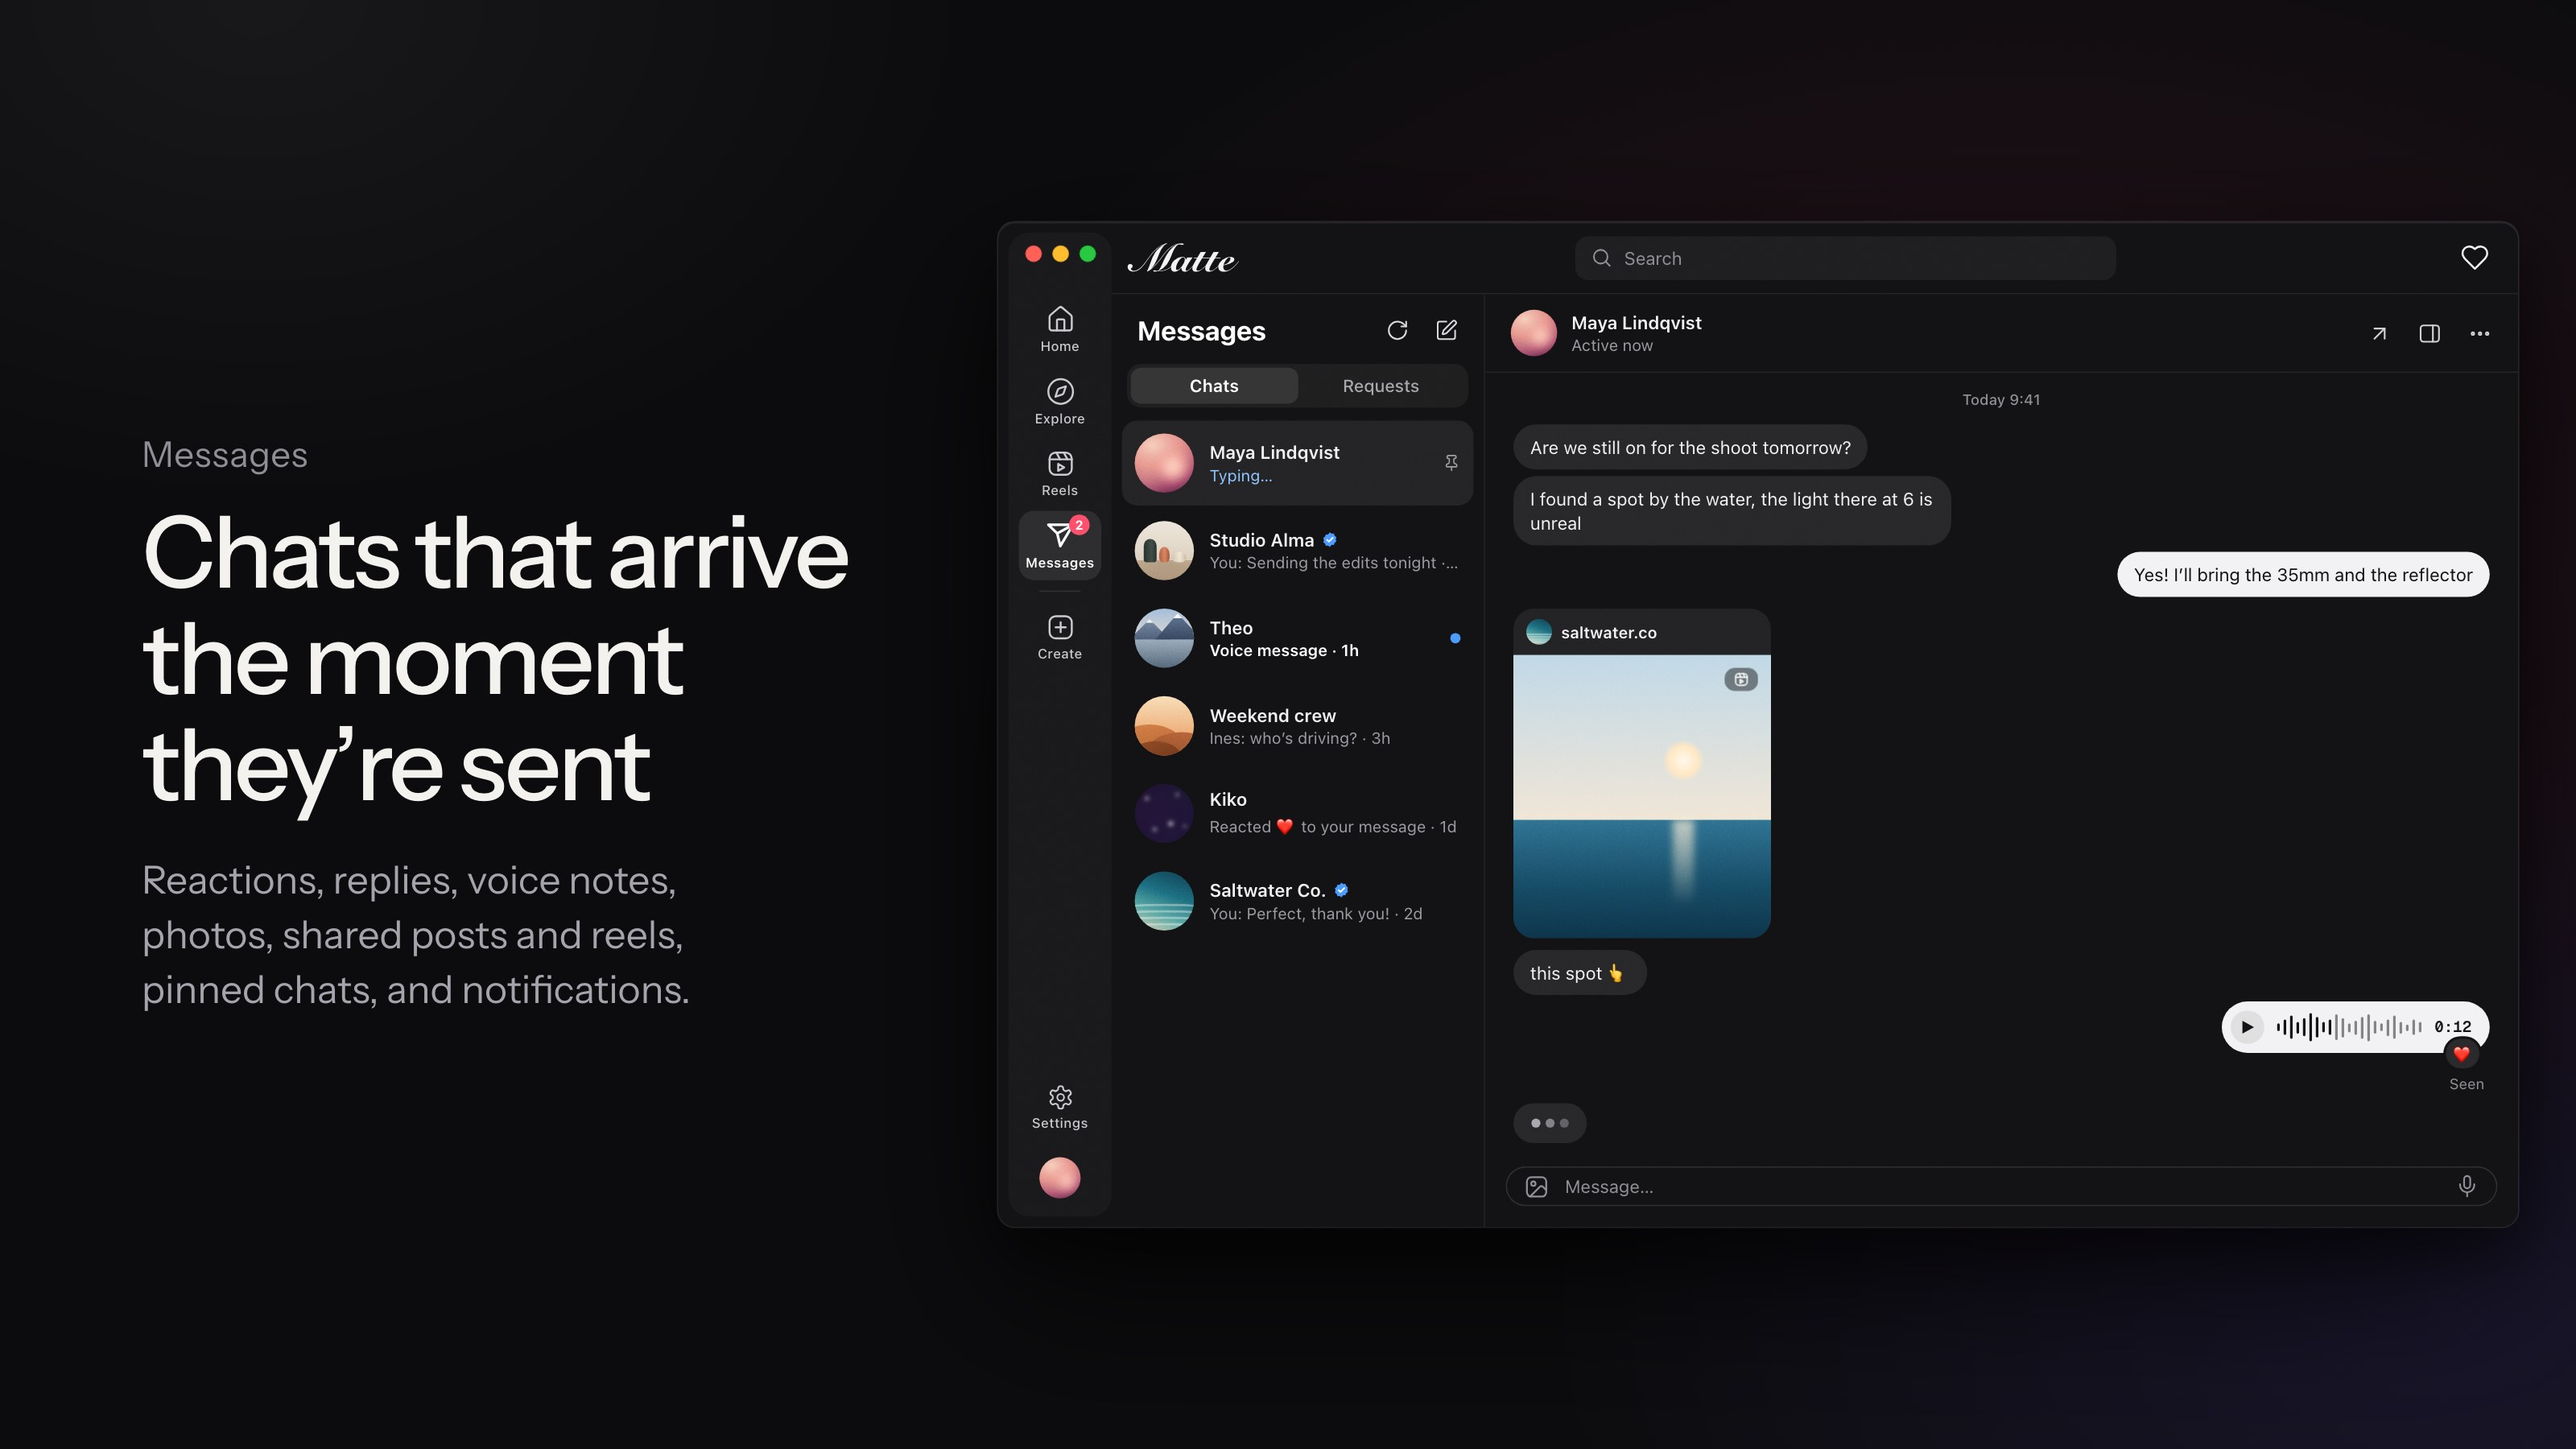
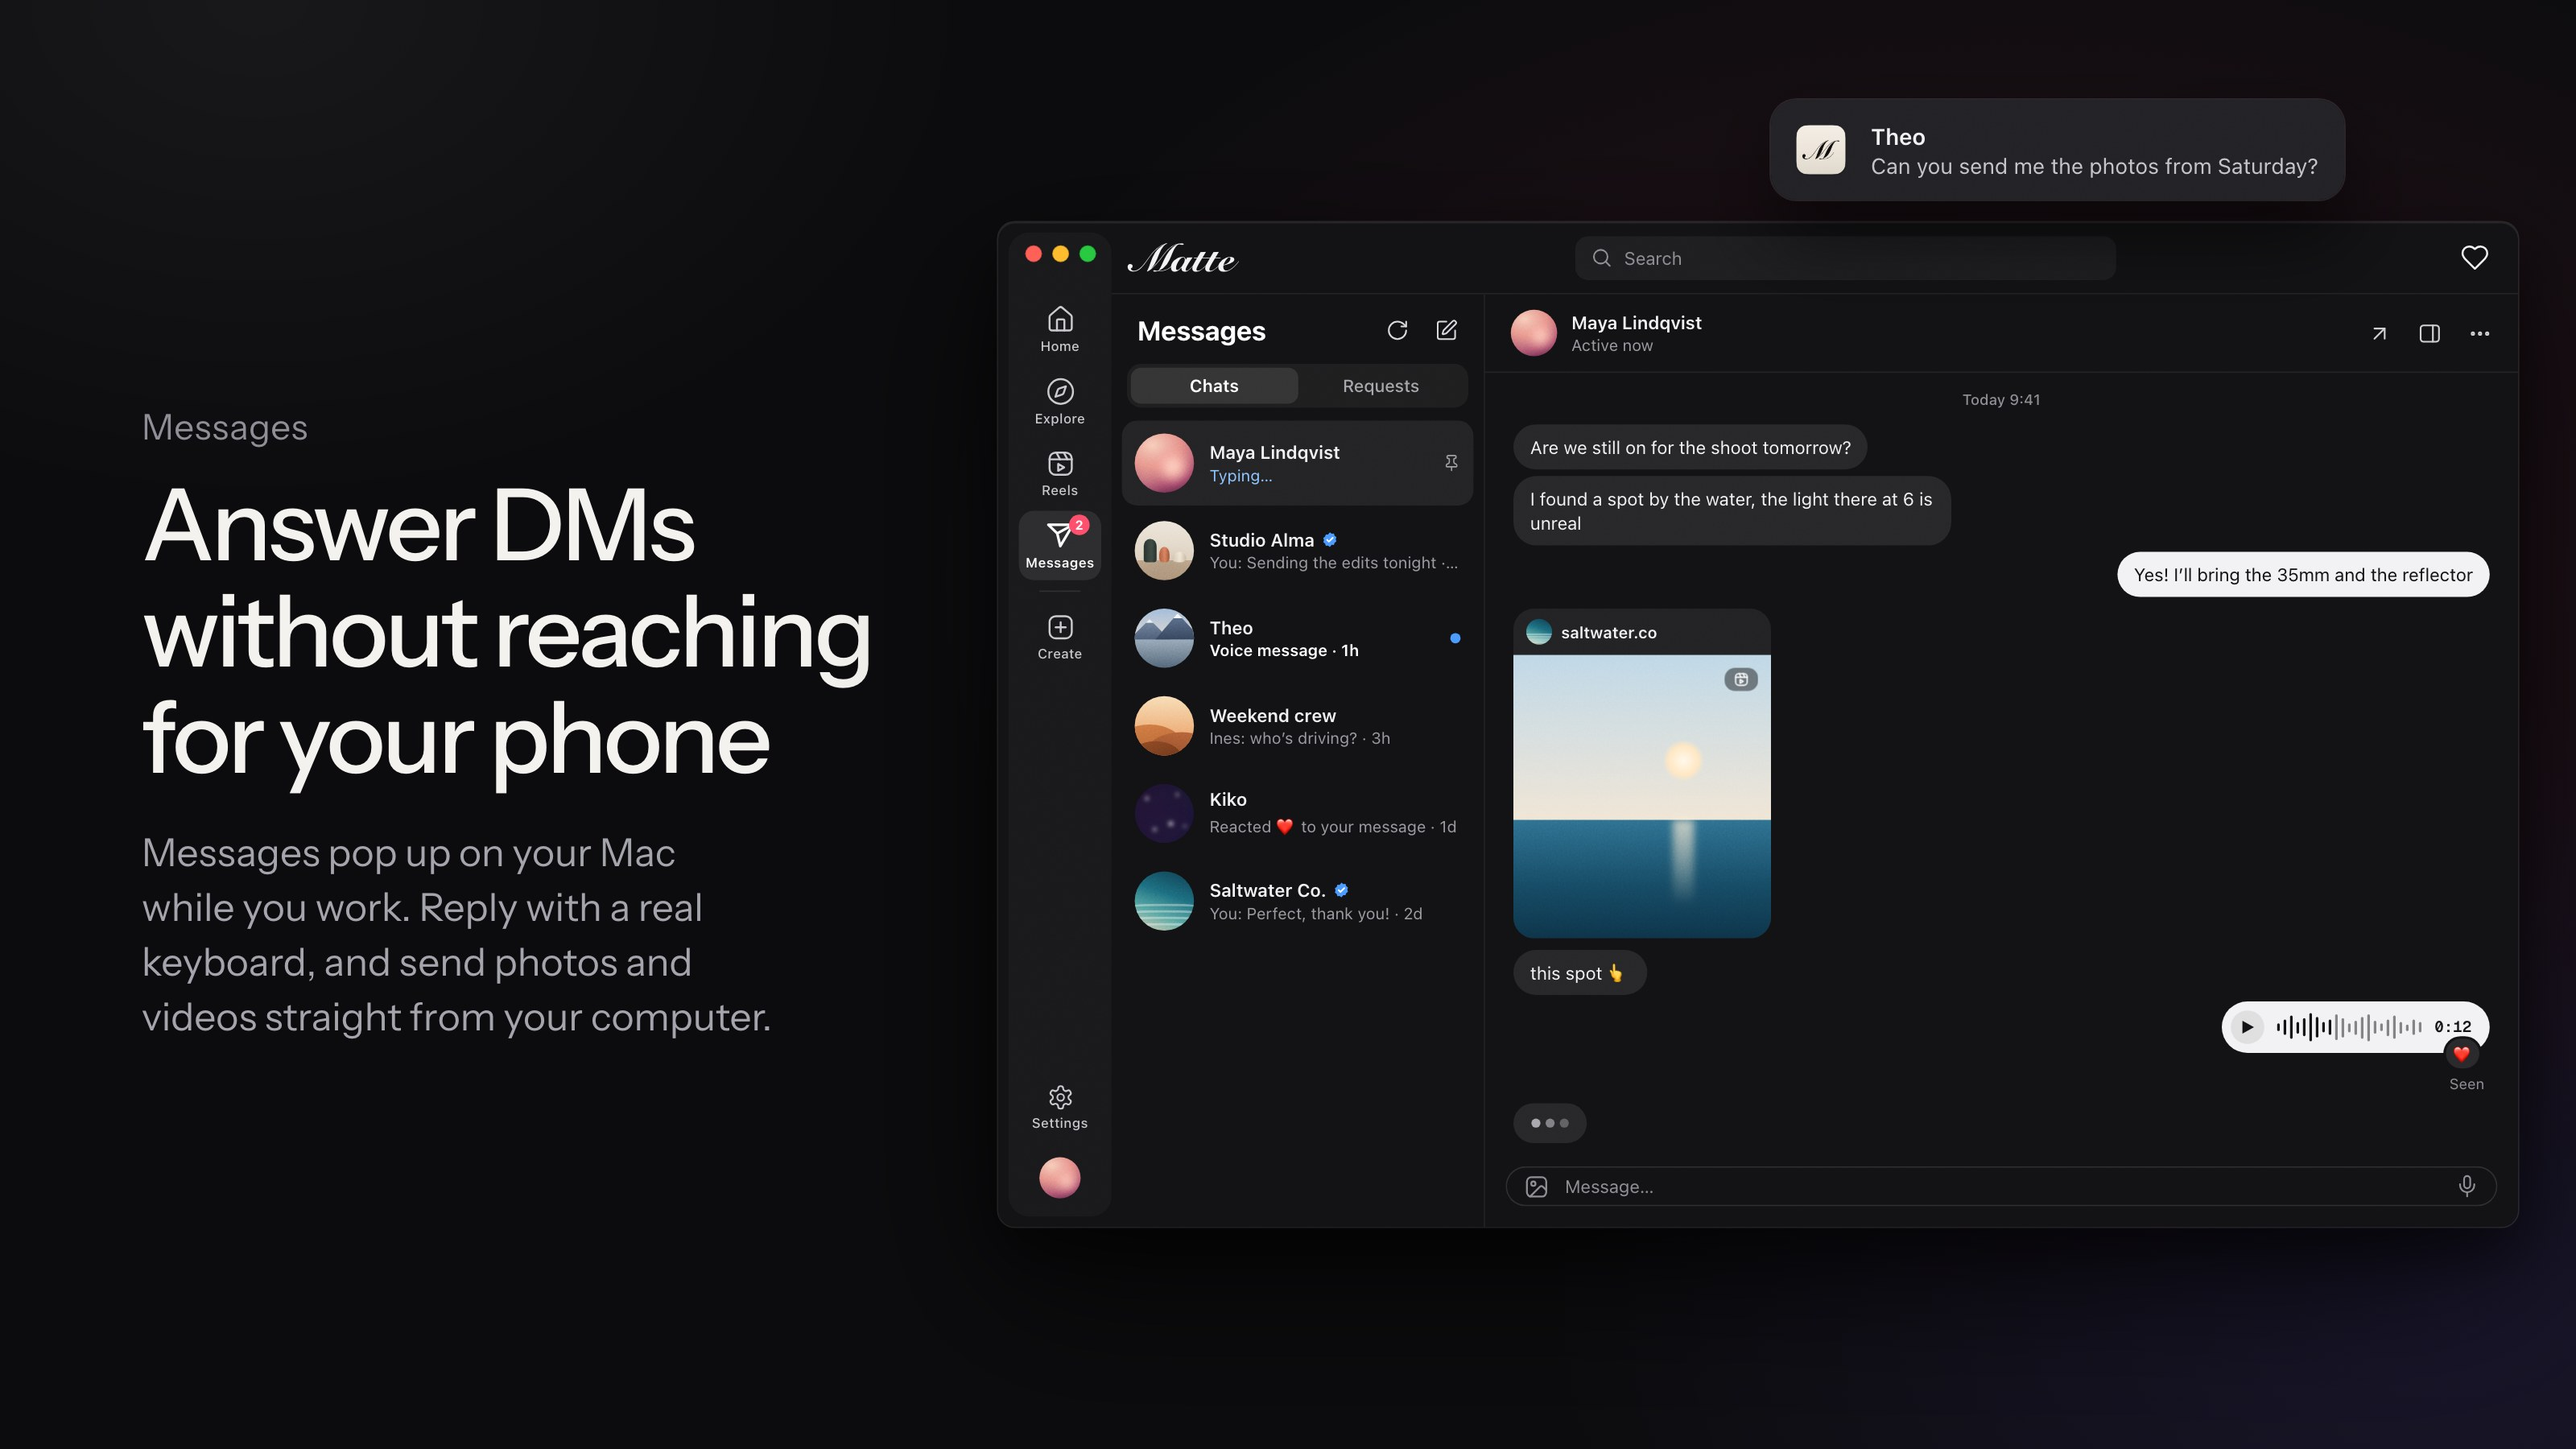
README graphics: copy rewritten around what people get (answer DMs without your phone, reels big with comments beside them, posts that go out on time), and a notification on the messages card

Changed region(s): [[0.0625, 0.28, 0.3438, 0.7156], [0.6875, 0.0622, 0.9062, 0.1244]]

diff --git a/docs/graphics/render.jsx b/docs/graphics/render.jsx
@@ -559,10 +559,10 @@ const Mini = ({ x, y, w = 168, kind = 'dusk', by = 'kiko.films', byKind = 'dusk'
   </div>
 );
 
-const Toast = ({ x, y }) => (
+const Toast = ({ x, y, name = 'Maya Lindqvist', text = 'The light at 6 is unreal, don’t be late 🌅' }) => (
   <div className="toast" style={{ left: x, top: y }}>
     <img src={appIcon} style={{ width: 38, height: 38 }} />
-    <div><div style={{ fontSize: 14, fontWeight: 600 }}>Maya Lindqvist</div><div style={{ fontSize: 13.5, color: '#c4c4ca', marginTop: 2 }}>The light at 6 is unreal, don’t be late 🌅</div></div>
+    <div><div style={{ fontSize: 14, fontWeight: 600 }}>{name}</div><div style={{ fontSize: 13.5, color: '#c4c4ca', marginTop: 2 }}>{text}</div></div>
   </div>
 );
 
@@ -599,7 +599,7 @@ const images = {
         <div style={{ position: 'absolute', left: 72, top: 60, bottom: 60, width: 520, display: 'flex', flexDirection: 'column' }}>
           <div className="brand"><img src={appIcon} /><span>Matte</span></div>
           <h1 style={{ fontSize: 64, lineHeight: '68px', marginTop: 'auto' }}>Your Instagram, on the big screen</h1>
-          <p className="sub" style={{ fontSize: 26, lineHeight: '36px', marginTop: 20 }}>A native Mac app, light on memory. Free and open source.</p>
+          <p className="sub" style={{ fontSize: 26, lineHeight: '36px', marginTop: 20 }}>Feed, Reels, stories and DMs in a Mac app that won’t slow your computer down. Free.</p>
           <p className="url" style={{ fontSize: 20, marginTop: 34 }}>matte.subhashh.tech</p>
         </div>
         <Scaled s={0.78} x={640} y={92}><Window page="Home"><Home /></Window></Scaled>
@@ -609,15 +609,16 @@ const images = {
   messages: {
     size: [1600, 900], scale: 2, type: 'jpeg',
     node: (
-      <Feature label="Messages" title="Chats that arrive the moment they’re sent" sub="Reactions, replies, voice notes, photos, shared posts and reels, pinned chats, and notifications.">
+      <Feature label="Messages" title="Answer DMs without reaching for your phone" sub="Messages pop up on your Mac while you work. Reply with a real keyboard, and send photos and videos straight from your computer.">
         <Scaled s={0.8} x={620} y={138}><Window page="Messages"><Messages /></Window></Scaled>
+        <Toast x={1100} y={62} name="Theo" text="Can you send me the photos from Saturday?" />
       </Feature>
     ),
   },
   reels: {
     size: [1600, 900], scale: 2, type: 'jpeg',
     node: (
-      <Feature label="Reels and stories" title="Big, clear, and they keep playing" sub="Leave a reel or a post and it shrinks into a mini player in the corner, still playing.">
+      <Feature label="Reels" title="Reels on a screen big enough to enjoy them" sub="Watch with the comments right beside the video. Go check something else and the reel keeps playing in the corner.">
         <Scaled s={0.8} x={620} y={138}><Window page="Reels"><Reels /></Window></Scaled>
         <Mini x={1446} y={548} w={124} kind="dunes" by="ines.r" byKind="dunes" />
       </Feature>
@@ -626,7 +627,7 @@ const images = {
   planner: {
     size: [1600, 900], scale: 2, type: 'jpeg',
     node: (
-      <Feature label="For business and creator accounts" title="Plan the month, then let it post itself" sub="Schedule posts and reels on a calendar, move or edit them, and answer the comments waiting for a reply.">
+      <Feature label="For business and creator accounts" title="Post on time, even on your busiest days" sub="Line up a month of posts and reels, and Instagram publishes each one on time, even with your Mac closed. Then answer every comment still waiting for you.">
         <Scaled s={0.8} x={620} y={138}><Window page="Planner" manager><Planner /></Window></Scaled>
       </Feature>
     ),
@@ -634,7 +635,7 @@ const images = {
   ghost: {
     size: [1600, 900], scale: 2, type: 'jpeg',
     node: (
-      <Feature label="Ghost mode" title="Look without being seen" sub="Each one is optional, and you can turn it off at any time.">
+      <Feature label="Ghost mode" title="Look without being seen" sub="Check a story or read a message on your own time, without anyone knowing you saw it.">
         <div style={{ position: 'absolute', left: 700, top: 0, bottom: 0, width: 780, display: 'flex', flexDirection: 'column', justifyContent: 'center', gap: 18 }}>
           {[['eyeOff', 'Watch stories without “Seen”', 'Your name stays off the viewer list.'], ['send', 'Read messages without “Seen”', 'Chats stay unread for the sender.'], ['comment', 'Type without “typing…”', 'Nobody sees you writing a reply.']].map(([icon, t, d]) => (
             <div key={t} className="toggle">
